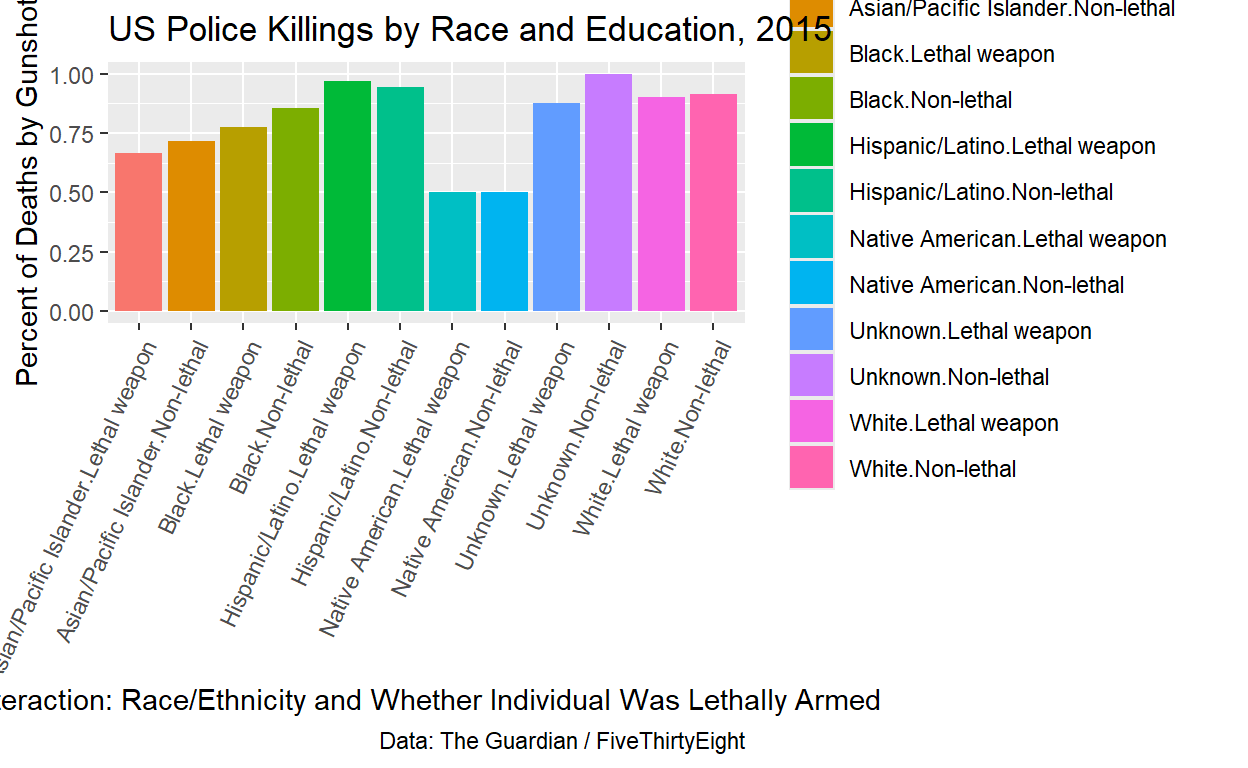
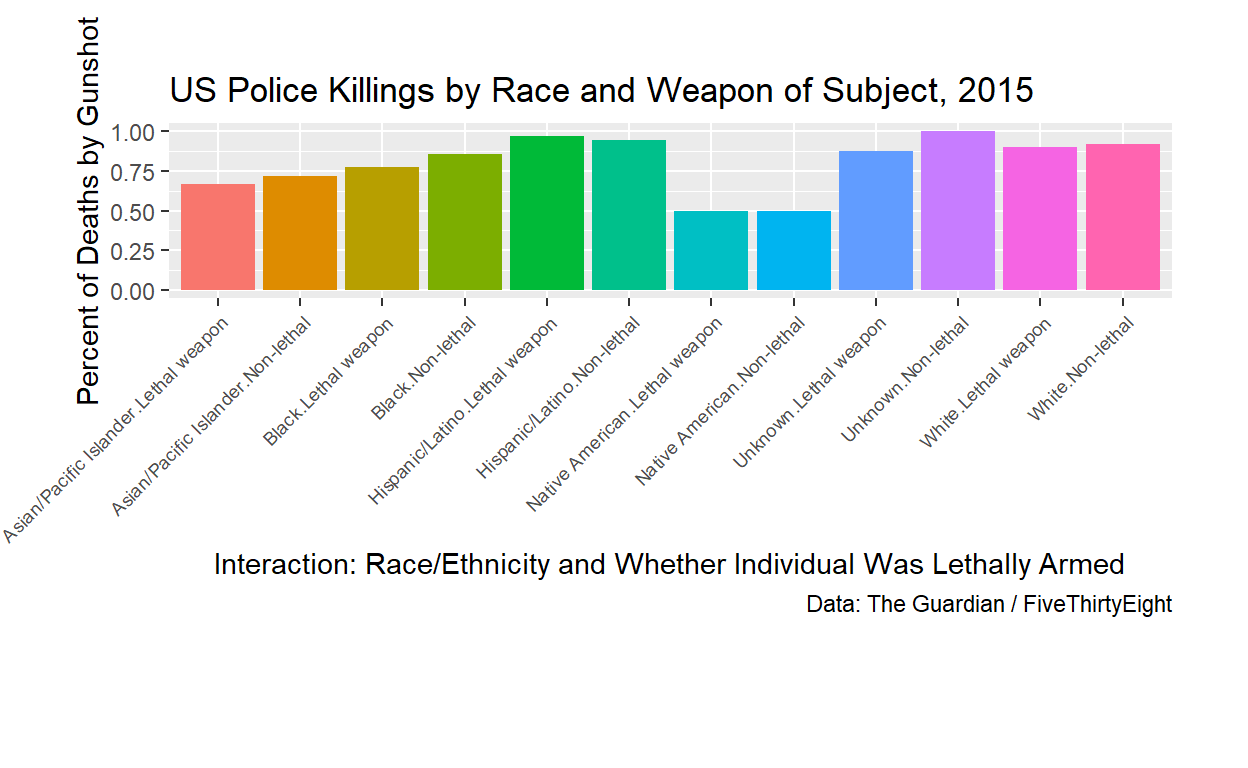
Getting there!!!!

Changed region(s): [[0.0, 0.0, 0.9375, 0.875], [0.0, 0.875, 0.7188, 1.0], [0.6562, 0.7812, 0.9375, 0.8125]]

diff --git a/index.html b/index.html
@@ -1770,9 +1770,11 @@ code span.wa { color: #5e5e5e; font-style: italic; } /* Warning */
 <span>  <span class='fu'><a href='https://ggplot2.tidyverse.org/reference/geom_bar.html'>geom_bar</a></span><span class='op'>(</span>stat <span class='op'>=</span> <span class='st'>"identity"</span><span class='op'>)</span> <span class='op'>+</span></span>
 <span>   <span class='fu'><a href='https://ggplot2.tidyverse.org/reference/labs.html'>labs</a></span><span class='op'>(</span>x <span class='op'>=</span> <span class='st'>"Interaction: Race/Ethnicity and Whether Individual Was Lethally Armed"</span>,</span>
 <span>       y <span class='op'>=</span> <span class='st'>"Percent of Deaths by Gunshot"</span>,</span>
-<span>       title <span class='op'>=</span> <span class='st'>"US Police Killings by Race and Education, 2015"</span>,</span>
+<span>       title <span class='op'>=</span> <span class='st'>"US Police Killings by Race and Weapon of Subject, 2015"</span>,</span>
 <span>       caption <span class='op'>=</span> <span class='st'>"Data: The Guardian / FiveThirtyEight"</span><span class='op'>)</span> <span class='op'>+</span></span>
-<span>  <span class='fu'><a href='https://ggplot2.tidyverse.org/reference/theme.html'>theme</a></span><span class='op'>(</span>axis.text.x <span class='op'>=</span> <span class='fu'><a href='https://ggplot2.tidyverse.org/reference/element.html'>element_text</a></span><span class='op'>(</span>angle <span class='op'>=</span> <span class='fl'>65</span>, hjust <span class='op'>=</span> <span class='fl'>1</span><span class='op'>)</span><span class='op'>)</span></span></code></pre>
+<span>  <span class='fu'><a href='https://ggplot2.tidyverse.org/reference/theme.html'>theme</a></span><span class='op'>(</span>axis.text.x <span class='op'>=</span> <span class='fu'><a href='https://ggplot2.tidyverse.org/reference/element.html'>element_text</a></span><span class='op'>(</span>angle <span class='op'>=</span> <span class='fl'>45</span>, hjust <span class='op'>=</span> <span class='fl'>1</span>, vjust <span class='op'>=</span> <span class='fl'>1</span>, size <span class='op'>=</span> <span class='fl'>7</span><span class='op'>)</span><span class='op'>)</span> <span class='op'>+</span></span>
+<span>  <span class='fu'><a href='https://ggplot2.tidyverse.org/reference/theme.html'>theme</a></span><span class='op'>(</span>plot.margin <span class='op'>=</span> <span class='fu'><a href='https://rdrr.io/r/grid/unit.html'>unit</a></span><span class='op'>(</span><span class='fu'><a href='https://rdrr.io/r/base/c.html'>c</a></span><span class='op'>(</span><span class='fl'>1</span>, <span class='fl'>1</span>, <span class='fl'>2</span>, <span class='fl'>1</span><span class='op'>)</span>, <span class='st'>"cm"</span><span class='op'>)</span>,</span>
+<span>        legend.position <span class='op'>=</span> <span class='st'>"none"</span><span class='op'>)</span></span></code></pre>
 </div>
 <img src="index_files/figure-html5/Interaction%20Plot-1.png" width="624" />
 <div class="sourceCode">
@@ -1794,6 +1796,8 @@ code span.wa { color: #5e5e5e; font-style: italic; } /* Warning */
 11 Unknown.Non-lethal                                 1    
 12 White.Non-lethal                                   0.914</code></pre>
 </div>
+<p>It appears that Hispanic/Latino individuals, armed or not, experienced the highest rates of death by gunshot (aside from the Unknown race category, but that’s hard to interpret). We do see that Black individuals die by gunshot at higher rates when they’re not lethally armed than when they’re armed with a lethal firearm, which suggests some support for my hypothesis but cannot be interpreted as causal without a regression model.</p>
+<p>Talking of regression models…</p>
 <h3 id="regression">Regression</h3>
 <h3 id="additional-visualizations">Additional Visualizations</h3>
 <p>Finally, let’s add to this research with a couple of interesting visualizations.</p>
